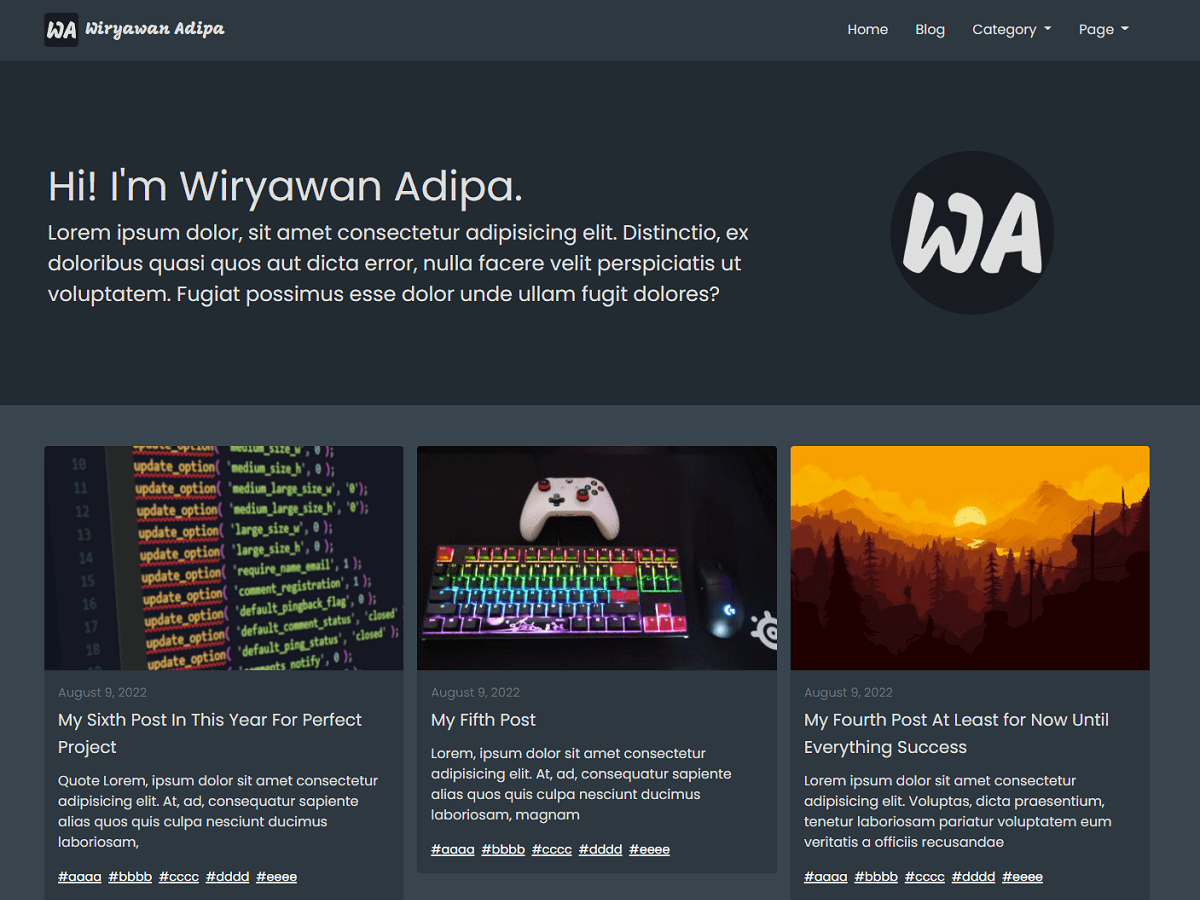
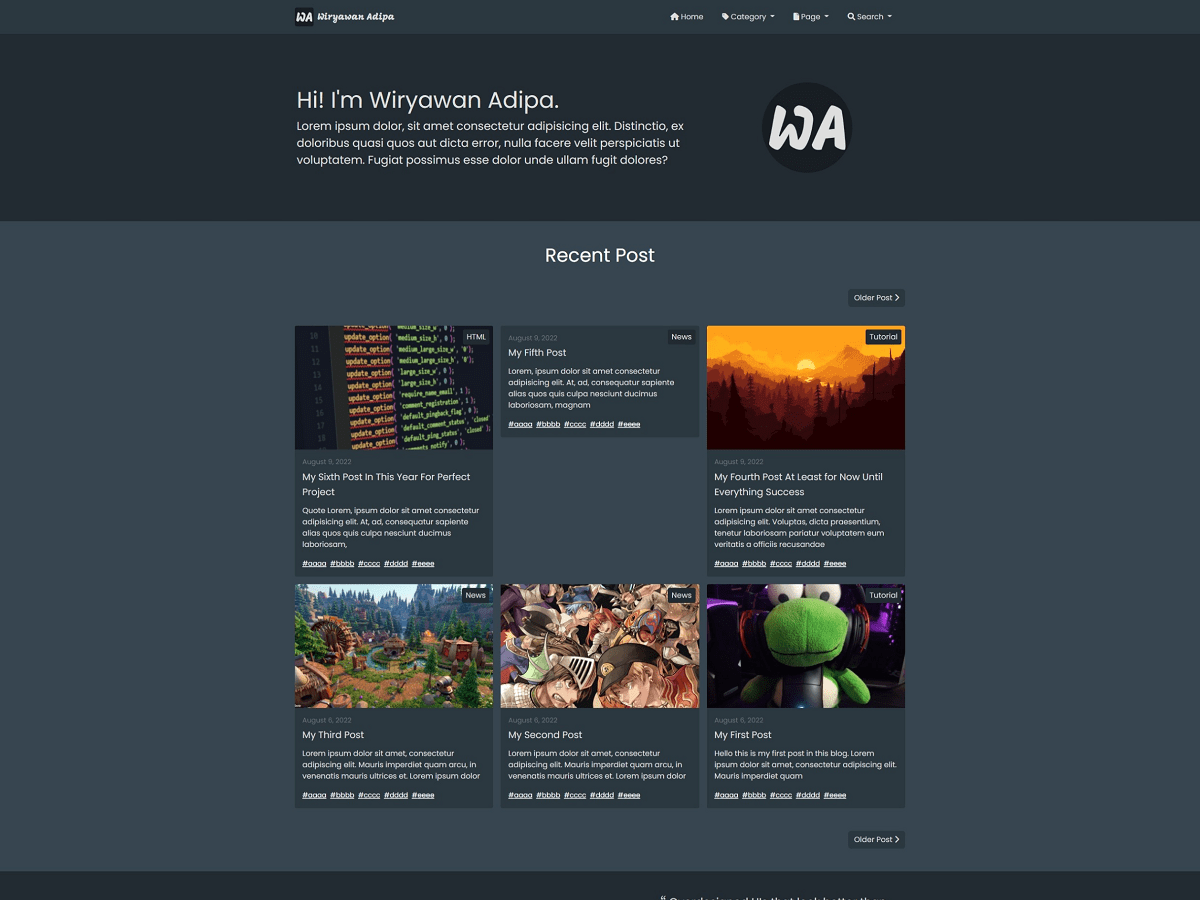
add demo image and fix some space in pages

diff --git a/assets/admin-style.css b/assets/admin-style.css
@@ -40,7 +40,7 @@ body {
 }
 
 .custom-theme-container {
-    background: var(--first-bg-color);
+    background: var(--second-bg-color);
     border-radius: 0 0 .25rem .25rem;
     padding: 1rem;
     box-shadow: 0 0 2px rgba(0,0,0,.15);
@@ -48,6 +48,12 @@ body {
 
 .custom-theme-container label, .custom-theme-container tr th, .custom-theme-container tr td p {
     color: var(--text-normal-color) !important;
+}
+
+.custom-theme-container textarea, .custom-theme-container input {
+    background-color: var(--first-bg-color);
+    border: none;
+    color: var(--text-normal-color);
 }
 
 .custom-theme-container textarea:focus, .custom-theme-container input:focus {

diff --git a/assets/wa-style.css b/assets/wa-style.css
@@ -216,8 +216,8 @@ input:focus-visible {
 .category-name-card {
     background-color: var(--third-bg-color);
     color: var(--text-normal-color);
-    top: 2px;
-    right: 2px;
+    top: 8px;
+    right: 8px;
     width: auto !important;
     z-index: 9997;
 }

diff --git a/footer.php b/footer.php
@@ -5,7 +5,7 @@
                     <div class="col-12 col-md-6 fs-1 mb-3 mb-md-0 text-center text-md-start">Thanks for visiting!</div>
                     <!-- Social Links -->
                     <?php include get_template_directory() . '/includes/social.php'; ?>
-                    <div class="col-12 col-md-6 mb-1 small-text text-center text-md-start"><i class="fa-solid fa-copyright"></i> 2017-<?php echo date( 'Y' ); ?>, <?php bloginfo( 'name' ); ?></div>
+                    <div class="col-12 col-md-6 mb-1 small-text text-center text-md-start"><i class="fa-solid fa-copyright"></i> <?php echo date( 'Y' ); ?>, <?php bloginfo( 'name' ); ?></div>
                     <div class="col-12 col-md-6"></div>
                     <div class="col-12 col-md-6 small-text text-muted text-center text-md-start"><i class="fa-brands fa-html5"></i> <a class="small-text text-muted theme-version" rel="nofollow" href="https://github.com/wiryawanadipa/adipa" target="_blank">Theme by Wiryawan Adipa v<?php $theme_version = wp_get_theme(); echo $theme_version->Version; ?></a></div>
                 </div>

diff --git a/search.php b/search.php
@@ -1,7 +1,7 @@
 <?php get_header(); ?>
 <main class="container-xl py-5 main-page">
 	<?php if ( have_posts() ) { ?>
-		<h1 class="text-center mt-4 mt-sm-3 mb-5 text-white">Search results for <em><?php echo get_search_query(); ?></em></h1>
+		<h1 class="text-center mb-5 text-white">Search results for <em><?php echo get_search_query(); ?></em></h1>
 		<?php pagenavi(); ?>
 		<div class="row mt-4 mb-5 g-2 g-xxl-3">
 			<?php

diff --git a/404.php b/404.php
@@ -1,6 +1,6 @@
 <?php get_header(); ?>
-<main class="container-xl py-4 py-lg-5 main-page">
-	<div class="row">
+<main class="container-xl py-5 main-page">
+	<div class="row mb-5 g-2 g-xxl-3">
         <div class="col-12 text-center my-5 error-404">
             <h1>Error 404</h1>
             <i class="fa-solid fa-triangle-exclamation fa-10x mb-3 mt-3"></i>
